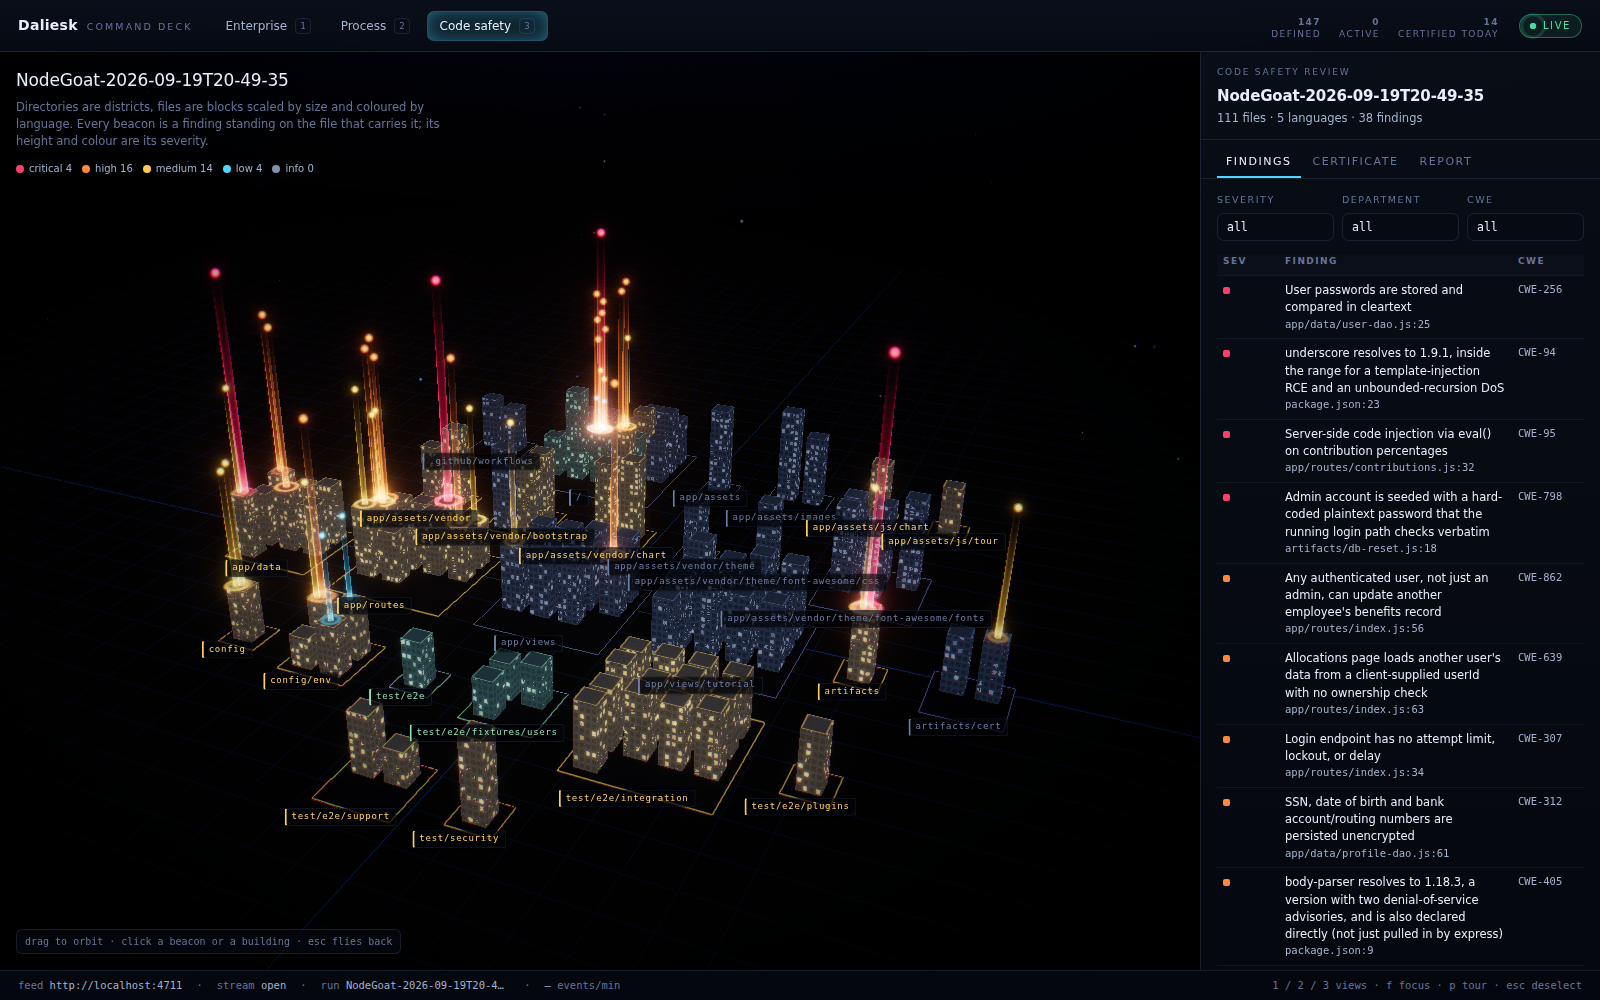
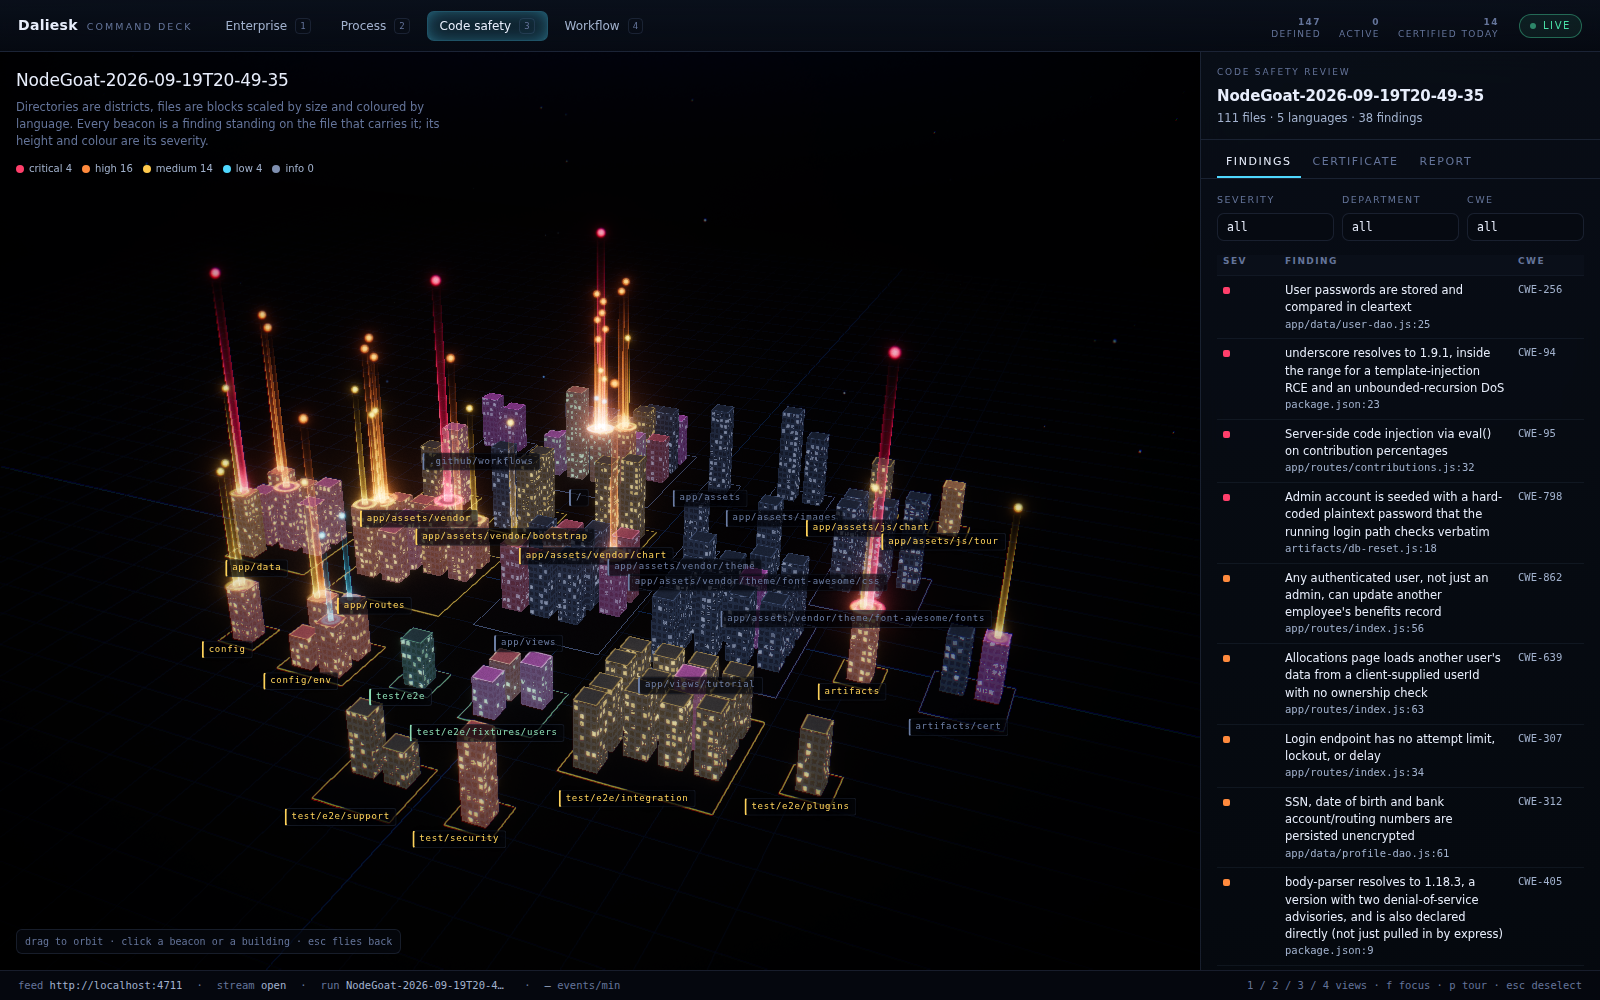
feat(deck): one department colour, and the read that lets the verdict land
The six code-safety departments take their colour from the palette's
departmentColor, read by the process lanes and by the code city's read
trail alike, so a department is one colour in both views whatever order the
departments start in. The store re-reads a review once more on the refresh
that first reports its run as no longer running, because the certificate
lands after the last read made while it ran; the stage's own workaround for
that goes. Exports nothing imports become module-local. README, Agent Note
and the safety screenshot follow the live review's three moments.

Claude-Session: https://claude.ai/code/session_01HEXjzxR7CyMizem5kFAB4C

diff --git a/apps/command-deck/components/safety/charters.ts b/apps/command-deck/components/safety/charters.ts
@@ -5,11 +5,11 @@
  * it: `code-safety department: <id> — <charter>`. Nothing here describes work
  * the departments do not do.
  *
- * The colours are `divisionColor('code-safety')` rotated across the same 84°
- * hue band `deck/pipeline.ts` gives lanes that share one division, so a
- * department reads as one colour in the pipeline and on the code city. They are
- * written out rather than computed because the six departments are fixed.
+ * The colours are the palette's `departmentColor`, which the process lanes read
+ * too, so a department is one colour in the pipeline and on the code city.
  */
+
+import { departmentColor } from '@/deck/palette'
 
 /** One department: what it is called, what it reads for, and the colour it acts in. */
 export interface DepartmentCharter {
@@ -20,21 +20,32 @@ export interface DepartmentCharter {
   color: string
 }
 
-/** The six departments of a code-safety review, in start order. */
-export const DEPARTMENT_CHARTERS: readonly DepartmentCharter[] = [
-  { id: 'secrets', name: 'Secrets', charter: 'Hard-coded credentials and leaked configuration', color: '#ff5ff6' },
-  { id: 'injection', name: 'Injection', charter: 'Injection and traversal', color: '#ff5fc9' },
-  { id: 'access', name: 'Access', charter: 'Authentication, session handling and authorization', color: '#ff5f9c' },
-  { id: 'data', name: 'Data', charter: 'Sensitive data exposure, logging and cryptography', color: '#ff5f70' },
-  { id: 'dependencies', name: 'Dependencies', charter: 'Vulnerable and outdated dependencies', color: '#ff7b5f' },
-  { id: 'platform', name: 'Platform', charter: 'Security misconfiguration and the web platform', color: '#ffa85f' },
-]
-
 /**
  * Tint for an act the roster does not attribute to one department — the program
  * lead's own reads, and any agent whose id names no department.
  */
-export const NEUTRAL_TOUCH = '#93a7c9'
+const NEUTRAL_TOUCH = '#93a7c9'
+
+/**
+ * One department entry, coloured from the palette.
+ * @param id - Department id.
+ * @param name - Display name.
+ * @param charter - What the department reads the target's code for.
+ * @returns The entry.
+ */
+function department(id: string, name: string, charter: string): DepartmentCharter {
+  return { id, name, charter, color: departmentColor(id) ?? NEUTRAL_TOUCH }
+}
+
+/** The six departments of a code-safety review, in start order. */
+export const DEPARTMENT_CHARTERS: readonly DepartmentCharter[] = [
+  department('secrets', 'Secrets', 'Hard-coded credentials and leaked configuration'),
+  department('injection', 'Injection', 'Injection and traversal'),
+  department('access', 'Access', 'Authentication, session handling and authorization'),
+  department('data', 'Data', 'Sensitive data exposure, logging and cryptography'),
+  department('dependencies', 'Dependencies', 'Vulnerable and outdated dependencies'),
+  department('platform', 'Platform', 'Security misconfiguration and the web platform'),
+]
 
 const BY_ID = new Map(DEPARTMENT_CHARTERS.map(entry => [entry.id, entry]))
 
@@ -46,7 +57,7 @@ const BY_ID = new Map(DEPARTMENT_CHARTERS.map(entry => [entry.id, entry]))
  * @param agentId - The acting agent's roster id.
  * @returns The department, or `undefined` when the id names none.
  */
-export function charterOfAgent(agentId: string): DepartmentCharter | undefined {
+function charterOfAgent(agentId: string): DepartmentCharter | undefined {
   for (const segment of agentId.split('-')) {
     const charter = BY_ID.get(segment)
     if (charter !== undefined) return charter

diff --git a/apps/command-deck/components/safety/moments.ts b/apps/command-deck/components/safety/moments.ts
@@ -14,15 +14,14 @@
 
 'use client'
 
-import { useEffect, useRef, useState } from 'react'
+import { useEffect, useState } from 'react'
 import type { Run, SafetyReview } from '@/deck/contract'
-import { useDeck } from '@/deck/store'
 
 /** How long the launch sequence holds the frame. */
-export const LAUNCH_MS = 8_000
+const LAUNCH_MS = 8_000
 
 /** How long the verdict holds the frame. */
-export const VERDICT_MS = 10_000
+const VERDICT_MS = 10_000
 
 /** How recently a review must have started for its launch sequence to play. */
 const FRESH_MS = 90_000
@@ -61,30 +60,12 @@ function justStarted(run: Run | undefined, review: SafetyReview): boolean {
 }
 
 /**
- * Read one review's detail once more, on the refresh that first reports its run
- * as no longer running.
- *
- * `DeckState.refresh` re-reads a code-safety review only while the run list
- * still calls it running, so the last read it makes is up to one refresh
- * interval older than the certificate the examiner writes at the end. Without
- * this read the deck can hold a finished review's last running snapshot, and
- * the verdict it never sees cannot play.
- * @param runId - The followed review's run id.
- * @param run - The run entry the feed lists for it.
- */
-function useFinalRead(runId: string | undefined, run: Run | undefined): void {
-  const done = useRef<string | undefined>(undefined)
-
-  useEffect(() => {
-    if (runId === undefined || run === undefined || run.status === 'running') return
-    if (done.current === runId) return
-    done.current = runId
-    void useDeck.getState().loadSafety(runId, true)
-  }, [runId, run])
-}
-
-/**
  * The set pieces the Safety view should be playing.
+ *
+ * The verdict depends on the store re-reading a review once more on the
+ * refresh that first reports its run as no longer running, which
+ * `DeckState.refresh` does: the certificate lands after the last read made
+ * while the run was still running.
  * @param runId - The followed review's run id.
  * @param run - The run entry the feed lists for it, when it lists one.
  * @param review - The loaded review, once it has arrived.
@@ -100,8 +81,6 @@ export function useSafetyMoments(
 
   const verified = review?.certificate.verified ?? false
   const ended = review !== undefined && !review.departments.some(entry => entry.status === 'pending')
-
-  useFinalRead(runId, run)
 
   useEffect(() => {
     if (runId === undefined || review === undefined || launched.has(runId)) return

diff --git a/apps/command-deck/deck/pipeline.ts b/apps/command-deck/deck/pipeline.ts
@@ -14,7 +14,7 @@
  */
 
 import type { Agent, RunEvent } from './contract.ts'
-import { divisionColor, EDGE_COLOR } from './palette.ts'
+import { departmentColor, divisionColor, EDGE_COLOR } from './palette.ts'
 
 /** One stage of the pipeline. */
 export interface Stage {
@@ -194,10 +194,11 @@ interface LaneDraft {
 /**
  * Discover the first-stage lanes of one run.
  *
- * Every lane takes its division's colour. Divisions that own several lanes —
- * the six code-safety departments are one division — spread their lanes across
- * a narrow hue band around that colour, so the division stays recognisable
- * while its departments stay apart.
+ * Every lane takes its division's colour. Divisions that own several lanes
+ * spread their lanes across a narrow hue band around that colour, so the
+ * division stays recognisable while its lanes stay apart; a code-safety
+ * department takes its fixed {@link departmentColor} instead, so it is the
+ * same colour here as on the code city whatever order the departments start in.
  * @param events - The run's event window, oldest first.
  * @param agents - The roster index.
  * @returns The lanes in first-appearance order.
@@ -231,7 +232,7 @@ export function discoverLanes(events: readonly RunEvent[], agents: Map<string, A
   for (const [base, group] of shared) {
     for (const [position, key] of group.entries()) {
       const spread = group.length < 2 ? 0 : ((position / (group.length - 1)) - 0.5) * LANE_HUE_BAND
-      colors.set(key, shiftHue(base, spread))
+      colors.set(key, departmentColor(key) ?? shiftHue(base, spread))
     }
   }
 

diff --git a/apps/command-deck/deck/palette.ts b/apps/command-deck/deck/palette.ts
@@ -26,6 +26,21 @@ const DIVISION_COLOR: Record<string, string> = {
 /** Fallback for a division the roster names but the palette does not. */
 const DIVISION_FALLBACK = '#9fb0cc'
 
+/**
+ * Hex colour per code-safety department id, in the order the program starts
+ * them: the code-safety division's colour rotated across the 84° hue band that
+ * lanes sharing one division spread over, so a department is one colour on the
+ * process lanes and on the code city.
+ */
+const DEPARTMENT_COLOR: Record<string, string> = {
+  secrets: '#ff5ff6',
+  injection: '#ff5fc9',
+  access: '#ff5f9c',
+  data: '#ff5f70',
+  dependencies: '#ff7b5f',
+  platform: '#ffa85f',
+}
+
 /** Hex colour per severity, worst first. */
 export const SEVERITY_COLOR: Record<Severity, string> = {
   critical: '#ff3f6b',
@@ -66,6 +81,15 @@ const LANGUAGE_FALLBACK = '#6d7fa6'
  */
 export function divisionColor(id: string): string {
   return DIVISION_COLOR[id] ?? DIVISION_FALLBACK
+}
+
+/**
+ * Colour for one code-safety department.
+ * @param id - Department id, such as `access`.
+ * @returns The department's hex colour, or `undefined` for an id that is not one of the six.
+ */
+export function departmentColor(id: string): string | undefined {
+  return DEPARTMENT_COLOR[id]
 }
 
 /**

diff --git a/apps/command-deck/deck/store.ts b/apps/command-deck/deck/store.ts
@@ -134,7 +134,14 @@ export const useDeck = create<DeckState>((set, get) => ({
       const pending = known.filter(run => !listed.some(entry => entry.id === run.id))
       set({ runs: [...pending, ...listed] })
       const selected = [...pending, ...listed].find(run => run.id === selectedRunId)
-      if (selected?.kind === 'code-safety' && (selected.status === 'running' || get().safetyRunId !== selected.id)) {
+      // The refresh that first reports a review as no longer running re-reads it
+      // once more: the certificate lands after the last read made while it ran,
+      // and a deck that stopped reading at that moment would never show it.
+      const wasRunning = known.find(run => run.id === selectedRunId)?.status === 'running'
+      if (
+        selected?.kind === 'code-safety'
+        && (selected.status === 'running' || wasRunning || get().safetyRunId !== selected.id)
+      ) {
         await get().loadSafety(selected.id, true)
       }
     } catch (error) {

diff --git a/apps/command-deck/components/safety/read-trail.ts b/apps/command-deck/components/safety/read-trail.ts
@@ -20,7 +20,7 @@ import { eventsUpTo, useDeck } from '@/deck/store'
 import { touchColor } from './charters.ts'
 
 /** One inventory file and the most recent event that opened it. */
-export interface Touch {
+interface Touch {
   path: string
   /** The acting department's colour; the flare is drawn in it. */
   color: string

diff --git a/apps/command-deck/README.md b/apps/command-deck/README.md
@@ -40,6 +40,8 @@ pnpm --dir apps/command-deck fixtures
 
 Playback replays a recorded run against its own clock. The transport in the Workflow panel and in the Process view's Timeline section plays from the cursor, or from the run's first frame while the deck is following the head, at 1×, 10×, 30× or 60×, and returns to following the head when it reaches the end, so a run still producing carries on live the moment playback catches up with it. `Space` plays and pauses and `[` and `]` step the speed, on whichever of those two views is on screen and never while the viewer is in a control. The two times under the buttons are the recorded span the cursor has passed and the span still ahead of it, not screen time: the twenty-minute NodeGoat review plays in twenty seconds at 60×. Every view reads the same cursor, so the graph builds itself while the pipeline's lanes light in the order they lit, and the process view's launch queue releases at its fixed rate multiplied by the playback speed rather than falling minutes behind the panel beside it.
 
+While a review runs, every file a department opens flares on its own building in that department's colour and fades over about two and a half seconds, with a short pulse running up the tower; the file then keeps a faint tint of that colour, so the city fills in as the review reads it, and the panel counts `N of 111 files opened` from the same resolution, a tool event's paths matched against the target's inventory by longest path suffix (on the recorded NodeGoat review that resolves 124 of 634 tool events to 51 of the 111 files). A review that starts while the deck is watching opens on an eight-second launch sequence in which the six departments ignite one after another with what each one reads the code for. A review that reaches its certificate while the deck is watching plays a ten-second verdict, CERTIFIED or NOT CERTIFIED, with the departments that certified, the examiner the certificate names and its severity counts, over a ground ring that travels out from the city centre and bursts each beacon as it passes; a review loaded in its final state plays neither, because nothing happened while anyone was watching. Under `prefers-reduced-motion: reduce` the city holds a steady highlight on the last file touched alone, the launch sequence is one static card, and the verdict is the card without the ring or the burst. The six departments are one colour everywhere: the process lanes and the city's read trail both take it from the palette.
+
 ![The enterprise view: 147 agents in ten division clusters](docs/enterprise.png)
 
 ![The process view: departments, verification, judging and integration](docs/process.png)

diff --git a/apps/command-deck/README.zh.md b/apps/command-deck/README.zh.md
@@ -40,6 +40,8 @@ pnpm --dir apps/command-deck fixtures
 
 回放按一次已记录运行自己的时钟重现它。工作流面板与流程视图 Timeline 区中的播放控件从游标处开始播放——指挥台跟随最新位置时则从运行的第一帧开始——速度为 1×、10×、30× 或 60×，播到末尾时回到跟随最新位置，因此仍在产出的运行会在回放追上它的那一刻继续实时进行。`Space` 播放与暂停，`[` 与 `]` 调节速度，只在这两个视图之一显示时生效，且观看者位于某个控件内时从不生效。按钮下方的两个时间是游标已经越过的记录时长与前方剩余的记录时长，而不是屏幕时间：二十分钟的 NodeGoat 审查在 60× 下二十秒播完。每个视图读取同一个游标，因此图在自我构建的同时，流水线的车道按它们当初点亮的顺序点亮，而流程视图的发射队列以其固定速率乘以回放速度释放，而不会落后旁边面板好几分钟。
 
+审查进行期间，某个部门每打开一个文件，该文件自己的楼就以该部门的颜色闪亮，并在约两秒半内淡去，同时一道短促的脉冲沿楼身向上跑过；之后该文件保留一层该颜色的淡淡色调，于是城市随着审查的阅读逐渐填满，面板也按同一套解析统计 `N of 111 files opened`——把工具事件中的路径按最长路径后缀与目标清单匹配（在已记录的 NodeGoat 审查上，634 条工具事件中有 124 条解析到 111 个文件中的 51 个）。在指挥台注视下启动的审查，以一段八秒的发射序列开场，六个部门依次点亮，各自写明它为什么而读代码。在指挥台注视下拿到证书的审查，播放一段十秒的裁决——CERTIFIED 或 NOT CERTIFIED，列出已认证的部门、证书点名的审查器及其各严重级别计数——同时一圈地面光环从城市中心向外扩散，经过每道光柱时使其迸发；以最终状态加载的审查两者都不播放，因为没有任何事发生在有人注视之时。在 `prefers-reduced-motion: reduce` 下，城市只对最后被触及的那个文件保持稳定高亮，发射序列是一张静态卡片，裁决是不带光环与迸发的卡片。六个部门在任何地方都是同一种颜色：流程车道与城市的阅读轨迹都从配色表取色。
+
 ![企业视图：147 个 agent 分布在十个 division 聚类中](docs/enterprise.png)
 
 ![流程视图：departments、验证、裁决与集成](docs/process.png)

diff --git a/.agents/notes/implemented/architecture/2026-09-19-command-deck.md b/.agents/notes/implemented/architecture/2026-09-19-command-deck.md
@@ -26,6 +26,8 @@ Three constraints shaped the design and pull against each other. The feed server
 
 **The run's workflow is a fourth view, and time is the run's own.** `deck/layout-workflow.ts` builds a directed graph of the followed run's sessions from the admitted events alone: a program run's root is the session id without a suffix, a child is that id plus `-<name>`, the integration session is the `-@integration` child placed last, and a run without such a root (a fleet, an experiment) tiers its sessions by pipeline stage with no spawn edges, because nothing in it states who started whom. Certificates seal nodes, merges strand into integration, refusals rim red. The timeline cursor is an epoch-millisecond cap on `ts`, not a sequence number, because `seq` counts from one inside each session and orders nothing across them; `deck/playback.ts` advances that cursor from an anchor against `performance.now()` at 1× to 60× and hands back to head-following at the end, and the process view's comet queue releases at its rate multiplied by the speed. The stream client deduplicates on the pair of `sessionId` and `seq` for the same reason: keyed on `seq` alone it kept 404 of the 1,079 frames of a seven-session review and dropped three of its seven certificates.
 
+**A live review has three moments, and each is a transition.** The code city resolves every admitted tool event to at most one inventory file by longest path suffix and flares that building in the acting department's colour, which is the palette's `departmentColor` and therefore the lane's colour in the process view. The launch sequence plays once per run id, on the first render that finds the review running with every department pending and a start inside ninety seconds; the verdict plays when a review the deck has already seen unfinished changes to verified, or ends unverified. A review loaded in its final state plays neither, because nothing happened while anyone was watching. `DeckState.refresh` re-reads a review once more on the refresh that first reports its run as no longer running, because the certificate lands after the last read made while it ran; without that read the deck held a finished review's running snapshot and no verdict could play.
+
 **The deck is a standalone Next.js program.** Its `tsconfig.json` is its own; it joins neither the host nor the client project-reference aggregate, because it is a browser application built by `next build` rather than a package the repository's `tsc -b` emits.
 
 ## Consequences

diff --git a/.agents/notes/implemented/architecture/2026-09-19-command-deck.zh.md b/.agents/notes/implemented/architecture/2026-09-19-command-deck.zh.md
@@ -26,6 +26,8 @@ Status: implemented
 
 **运行的工作流是第四个视图，时间是运行自己的时间。** `deck/layout-workflow.ts` 只凭已采纳的事件为当前跟随运行的各会话构建一张有向图：program 运行的根是不带后缀的会话 id，子会话是该 id 加 `-<名称>`，集成会话是放在最后的 `-@integration` 子会话；没有这种根的运行（fleet、experiment）按流水线阶段分层且没有派生边，因为其中没有任何东西说明谁启动了谁。证书封印节点，合并向集成拉出光丝，拒绝留下红边。时间轴游标是对 `ts` 的 epoch 毫秒上限，而不是序号，因为 `seq` 在每个会话内部从一开始计数，在会话之间不表示任何先后；`deck/playback.ts` 以一个锚点对照 `performance.now()` 以 1× 到 60× 推进该游标，播到末尾时交还给跟随最新位置，而流程视图的彗星队列以其速率乘以回放速度释放。出于同样的原因，流客户端按 `sessionId` 与 `seq` 这一对去重：只按 `seq` 去重时，一次七会话审查的 1,079 帧只留下 404 帧，七张证书丢了三张。
 
+**一次现场审查有三个时刻，每个都是一次转变。** 代码城市按最长路径后缀把每条已采纳的工具事件解析到至多一个清单文件，并以行动部门的颜色让那栋楼闪亮——该颜色就是配色表的 `departmentColor`，因而也是流程视图中该车道的颜色。发射序列对每个运行 id 只播放一次：在首次渲染发现审查正在运行、所有部门都处于 pending 且启动时间在九十秒之内时；裁决则在指挥台已见其未完成的审查变为已验证、或以未验证告终时播放。以最终状态加载的审查两者都不播放，因为没有任何事发生在有人注视之时。`DeckState.refresh` 在首次报告其运行不再处于 running 的那次刷新上再读一次该审查，因为证书落地在运行期间最后一次读取之后；没有这次读取，指挥台会一直持有一次已结束审查的运行中快照，裁决也无从播放。
+
 **deck 是一个独立的 Next.js 程序。** 它的 `tsconfig.json` 归自己所有；它既不加入 host 也不加入 client 的 project reference 聚合，因为它是由 `next build` 构建的浏览器应用，而非仓库 `tsc -b` 产出的包。
 
 ## Consequences
